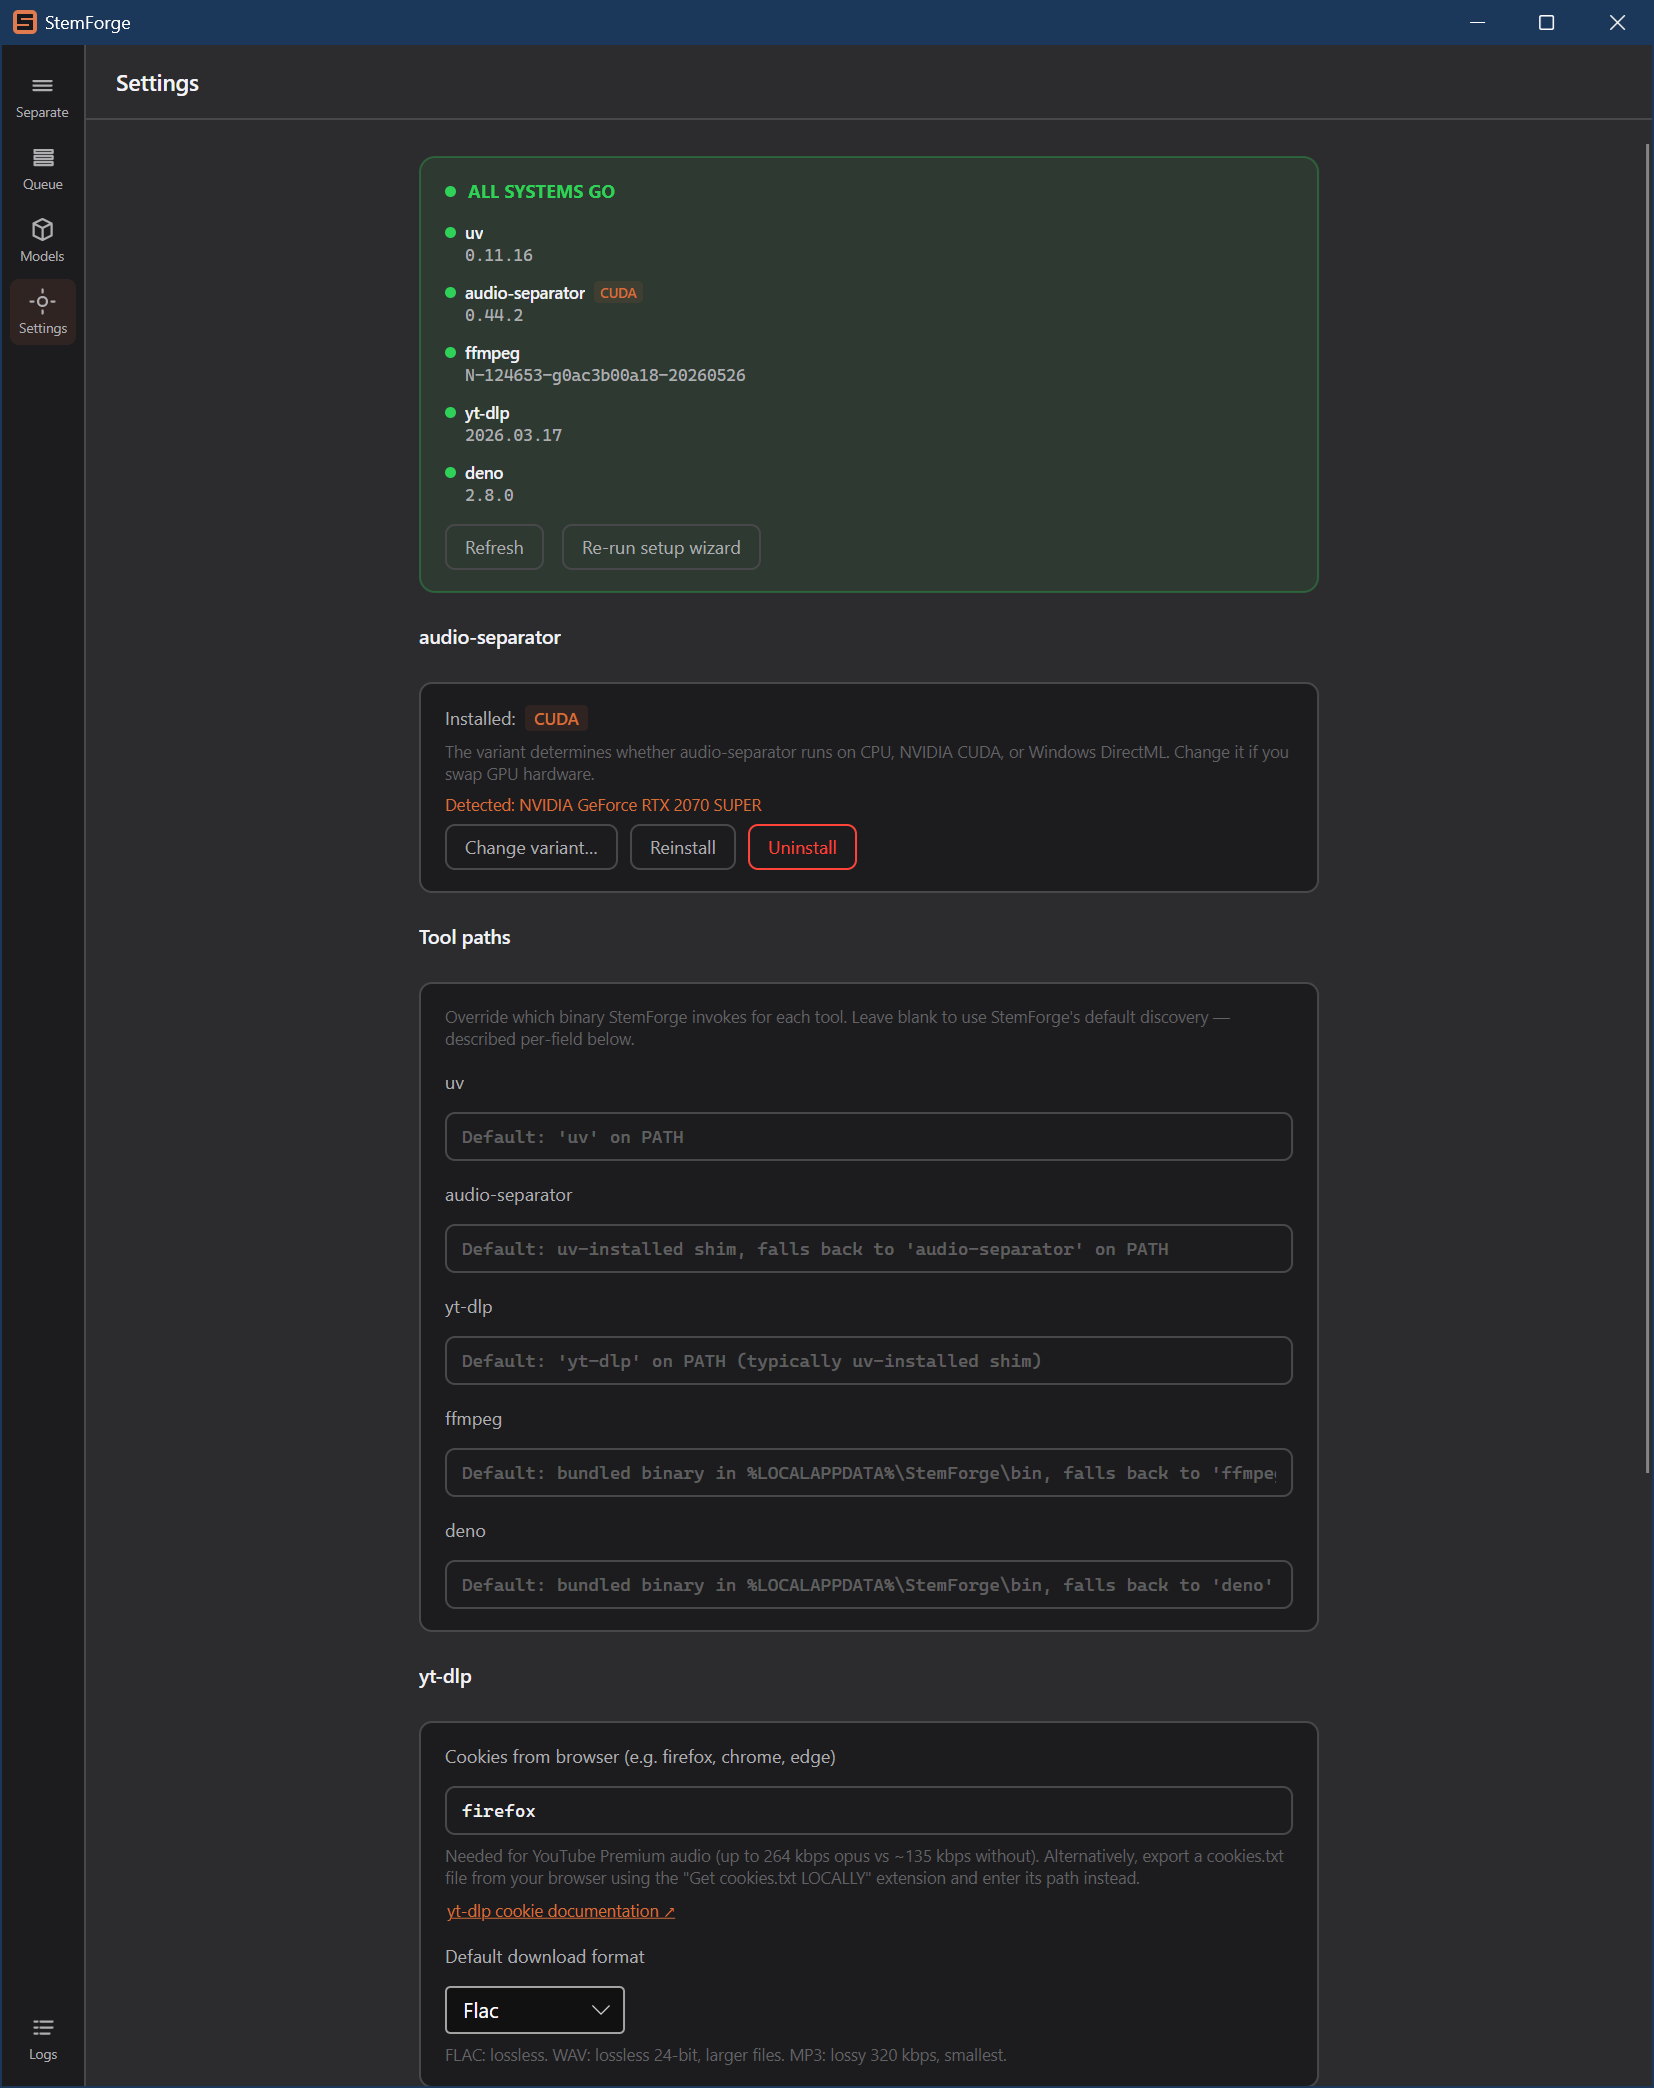
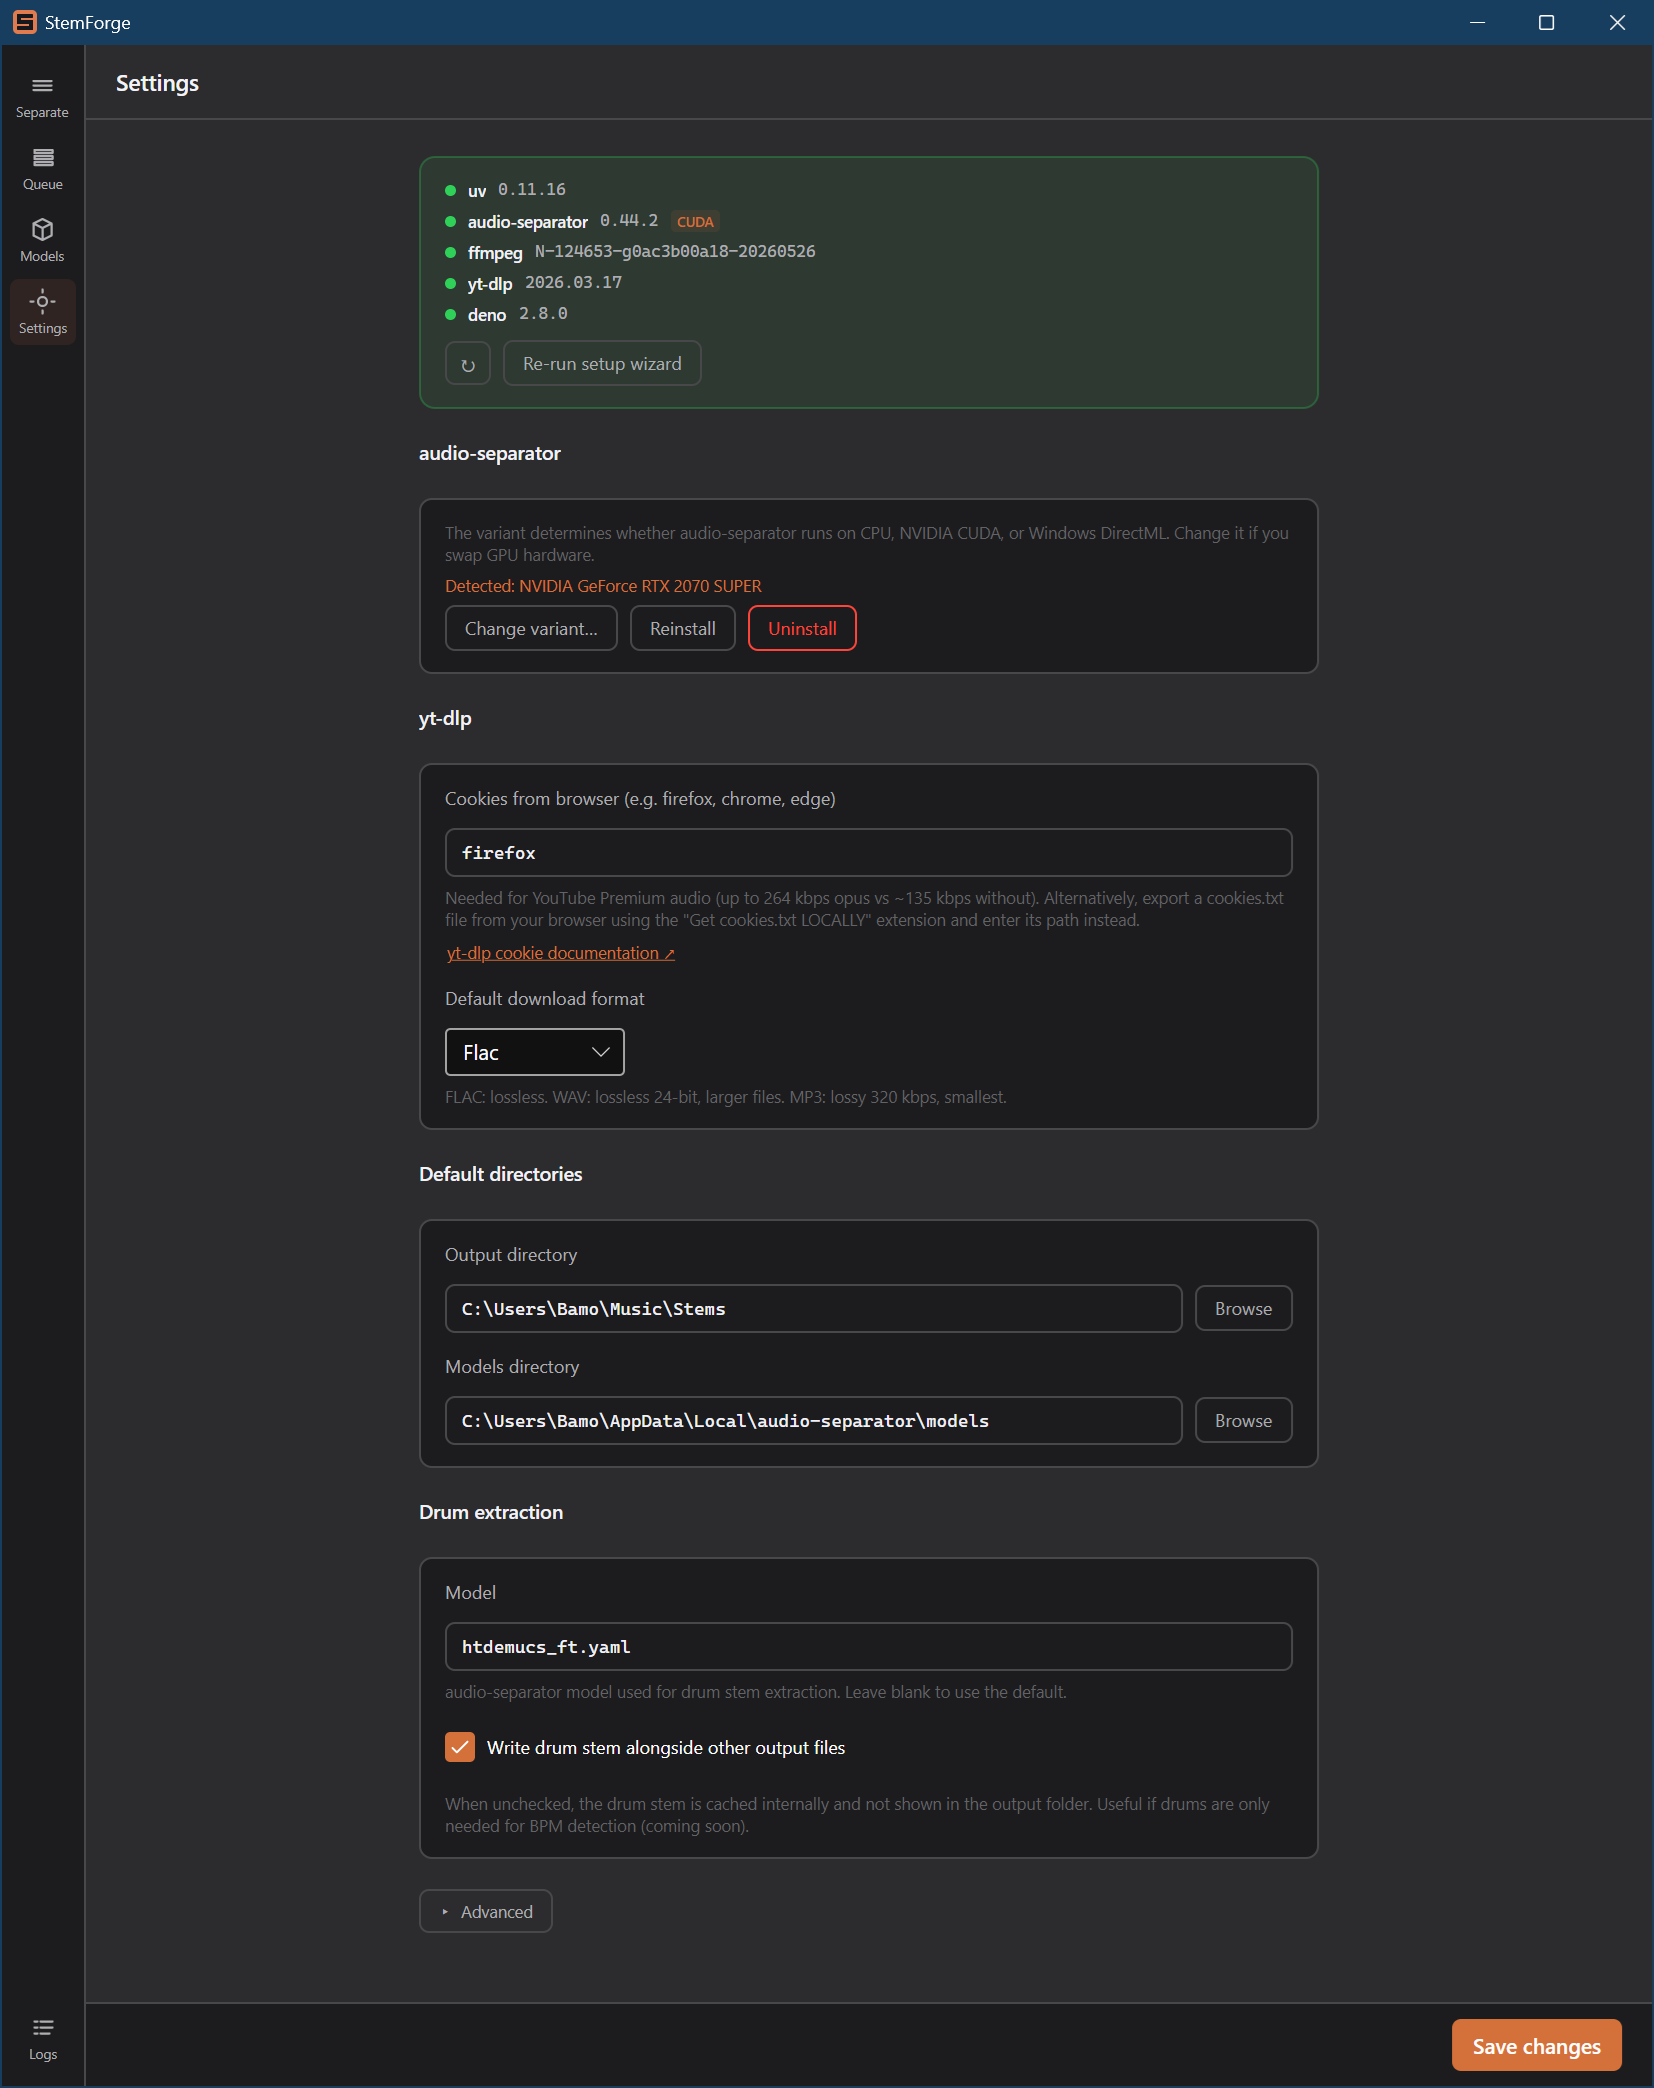
v0.1.1: version bump, dynamic user-agent, updated Settings screenshot

diff --git a/src/StemForge/Services/BundledFetcher.cs b/src/StemForge/Services/BundledFetcher.cs
@@ -68,10 +68,13 @@ public sealed class BundledFetcher(AppPaths paths, PlatformInfo platform)
         CancellationToken ct
     )
     {
+        var appVersion =
+            System.Reflection.Assembly.GetExecutingAssembly().GetName().Version?.ToString(3)
+            ?? "dev";
         using var http = new HttpClient
         {
             Timeout = TimeSpan.FromMinutes(15),
-            DefaultRequestHeaders = { UserAgent = { new("StemForge", "0.1") } },
+            DefaultRequestHeaders = { UserAgent = { new("StemForge", appVersion) } },
         };
 
         using var response = await http.GetAsync(url, HttpCompletionOption.ResponseHeadersRead, ct);